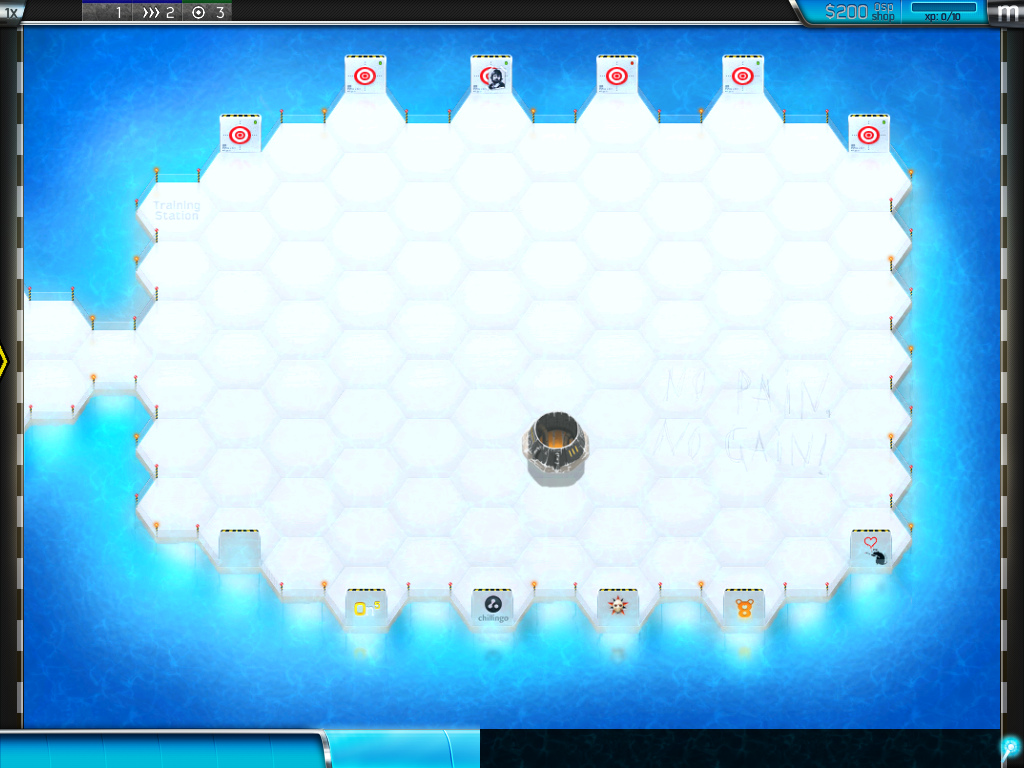
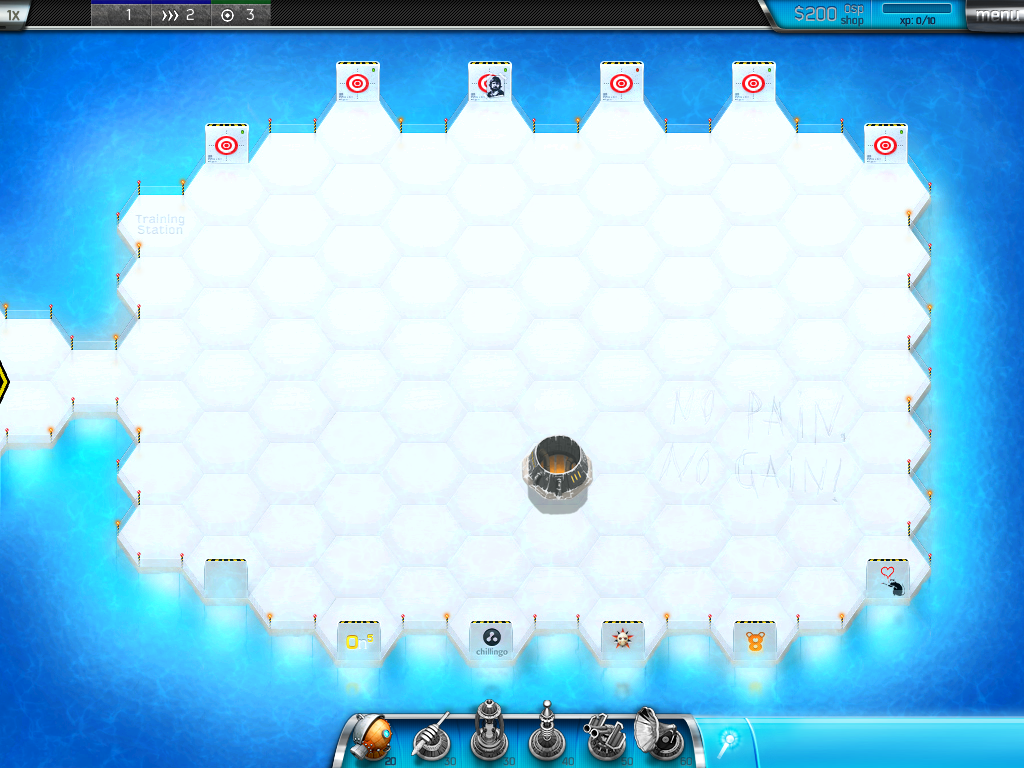
Report iPad to the game (tower bar, menu button, iPad art), always start on the main menu, skip studio splash, new first-run/level tests

diff --git a/host/objc.c b/host/objc.c
@@ -129,6 +129,10 @@ static void do_send(gptr recv, const char *sel, int stret, gptr start_cls, int u
     if (t.imp) {
         static int no_tut = -1; if (no_tut < 0) no_tut = getenv("RA_NO_TUTORIAL") != NULL;   /* test aid: skip the first-run tutorial overlays */
         if (no_tut && !strncmp(sel, "showTutorial:", 13)) { ret(0); return; }
+        /* always start on the main menu: dissolveSplash jumps straight to the map while the welcome tutorial is pending */
+        if (!strcmp(sel, "canShowTutorial:") && arg(2) == 2 && reg(14) >= 0x1d430 && reg(14) < 0x1d760) { ret(0); return; }
+        /* no publisher / studio splash: go straight to the game */
+        if (!strcmp(sel, "startIntroSequence")) { GCls *g = find_gcls(rd32(recv)); if (g && !strcmp(g->name, "IntroSequenceView")) { Target t2 = lookup(recv, "finishedIntroSequence", 0, 0); if (t2.imp) { set_next_pc(t2.imp); return; } } }
         set_next_pc(t.imp); return; }
     if (!strcmp(t.fake, "__stub__")) { ret(0); return; }
     int handled = 0;
@@ -228,7 +232,7 @@ static int host_msg(const char *cls, gptr recv, const char *sel, int stret, int 
     if (IS("retainCount")) { ret(1); return 0; }
     if (IS("class")) { ret(is_cls ? recv : rd32(recv)); return 0; }
     if (IS("isKindOfClass:") || IS("isMemberOfClass:")) { ret(1); return 0; }
-    if (IS("respondsToSelector:")) { ret(guest_responds(recv, gstr(A(2))) ? 1 : 0); return 0; }
+    if (IS("respondsToSelector:")) { if (!strcmp(cls, "UIDevice") && !strcmp(gstr(A(2)), "userInterfaceIdiom")) { ret(1); return 0; } ret(guest_responds(recv, gstr(A(2))) ? 1 : 0); return 0; }
     if (IS("conformsToProtocol:")) { ret(1); return 0; }
     if (IS("hash")) { ret(recv); return 0; }
     if (IS("isEqual:")) { ret(recv == A(2)); return 0; }

diff --git a/docs/PORT_STATUS.md b/docs/PORT_STATUS.md
@@ -22,7 +22,8 @@ Same architecture as `../ios-redalert`: the armv7 Mach-O runs under Unicorn insi
 ## Known problems
 0. **Levels load and render (fixed).** Root cause of the old "loading screen never finishes": the engine's level loader runs on a pthread and reports completion by posting a request to its screen-transition object (`b29e4(cmd, 6, 0, 0xb)` in `sub_cb5d8`); that request is ignored unless the transition is idle (kind 3). The host used to run every `pthread_create` start routine *inside* the call, so the post arrived while the transition was still closing and was dropped. Threads are now cooperative (own stack, `uc_context_save/restore`, parked in `pthread_cond_wait`, woken by `pthread_cond_signal`) and are started ~20 frames after `pthread_create`, once the transition is idle. Also fixed on the way: name-less `addObserver` calls (unbound `UI*Notification` constants) fired on every notification; the guest could delete the host's render-target texture (`glDeleteTextures` id collision) which drew a giant upside-down glyph; `TutorialView` sizes itself from measured text and needs its nib children to follow (autoresize).
    - Remaining level work: tutorial prompts inside the level, tower placement/waves are untested beyond zoom/tap, audio, win/lose screens, and writing the result back to the career.
-   - **In-level state (what is known, 2026-11-11).** The game object exists and its per-frame update runs (`sub_d2768` -> `sub_d2ac6`..), the HUD top strip and the arena render. Missing compared with the device (see `ref-images/` and the user's reference shots): the bottom **tower bar** (only its 480 px left tile is drawn at y=721; tower icons for types 1,4,7,10,13,16 *are* loaded from `towers/towerN_icon.png` but no quads are drawn for them), the tutorial bubbles and the "build here" pointers, creeps/towers (no wave is running; the Training config has `wavedelay` 1000000, so waves are launched from the HUD).
+   - **Fixed: tower bar.** `-[O5Globals deviceType]` returns 1 (iPhone) unless `[[UIDevice currentDevice] respondsToSelector:userInterfaceIdiom]` and the idiom is Pad; the host did neither, so the game used iPhone layout flags (`game+0x1dd`) but loaded iPad textures, and the bar looked up `icon_x2` (an `<iphone>1` texture) which does not exist. The host now reports an iPad. Result: tower bar with 6 towers and prices, "menu" button + Paused screen work, iPad-resolution map and menu art. Tower placement from the scripted harness still does nothing (icon tap + hex tap, and drag) - needs a real-mouse check.
+   - **In-level state (older notes, partly superseded).** The game object exists and its per-frame update runs (`sub_d2768` -> `sub_d2ac6`..), the HUD top strip and the arena render. Missing compared with the device (see `ref-images/` and the user's reference shots): the bottom **tower bar** (only its 480 px left tile is drawn at y=721; tower icons for types 1,4,7,10,13,16 *are* loaded from `towers/towerN_icon.png` but no quads are drawn for them), the tutorial bubbles and the "build here" pointers, creeps/towers (no wave is running; the Training config has `wavedelay` 1000000, so waves are launched from the HUD).
    - Offline room data (`-[TDServer mod_joinGameConfig:]`) only carries `roomid status configid numplayers location map wavedelay gametype sources bases waves`; it has no `players` list and no `settings` (`dumbcreeps`, `build_around_base`, `tutorial`, `cam_x/cam_y`, `creep_hp`) nor `grantsunlock`/`msgwin`/`msglost` from `offlineConfigs`. The host now synthesises `players` (local player, slot 1) on the first miss (`offline_room_players`, uikit2.inc); `settings` and `grantsunlock` are still not forwarded - finishing the Training level needs `grantsunlock: "tut"` to unlock the next level.
    - Engine pointers that matter (armv7 `Tower`): `sub_f6eb0` frame function (scene/transition state machine on `[engine+0x14]`: kind 0..3, type), `sub_d4c04` game start, `sub_d4f04` game update+draw, `sub_d5738` HUD draw (runs only when `game+0x18`), `sub_d2e50` per-level tutorial (`FirstGameMode-%d` default), `-[TDPlayer hasUnlock:]` called per frame for `T4L1`, `T7L1`, ... (tower availability).
    - Debug aids added: `RA_GLDUMP` (every draw + `==== present frame` markers), `RA_GLTEX`, `RA_IMGLOG`, `RA_WATCH_BRK=brk:reg:off` (watch a field from a break), `RA_POKE`, `RA_BLKCNT=<frame>` with `RA_BLOCKS=1` (basic-block histogram), `RA_UIDUMP_TEXT`, `RA_HIDELOG`, `RA_DICTKEYS=<key>`, `RA_NO_TUTORIAL`.

diff --git a/docs/HLE_TODO.md b/docs/HLE_TODO.md
@@ -9,11 +9,11 @@
 - `-[CAKeyframeAnimation animationWithKeyPath:]`
 - `-[CAMediaTimingFunction functionWithName:]`
 - `-[EAGLContext sharegroup]`
-- `-[MPMoviePlayerController setFullscreen:]`
-- `-[MPMoviePlayerController setRepeatMode:]`
-- `-[NSNull null]`
+- `-[GKLocalPlayer localPlayer]`
+- `-[NSDictionary dictionaryWithObject:forKey:]`
 - `-[NSString stringByAddingPercentEscapesUsingEncoding:]`
 - `-[SKPaymentQueue defaultQueue]`
+- `-[UITextField resignFirstResponder]`
 
 ## Faults
 
